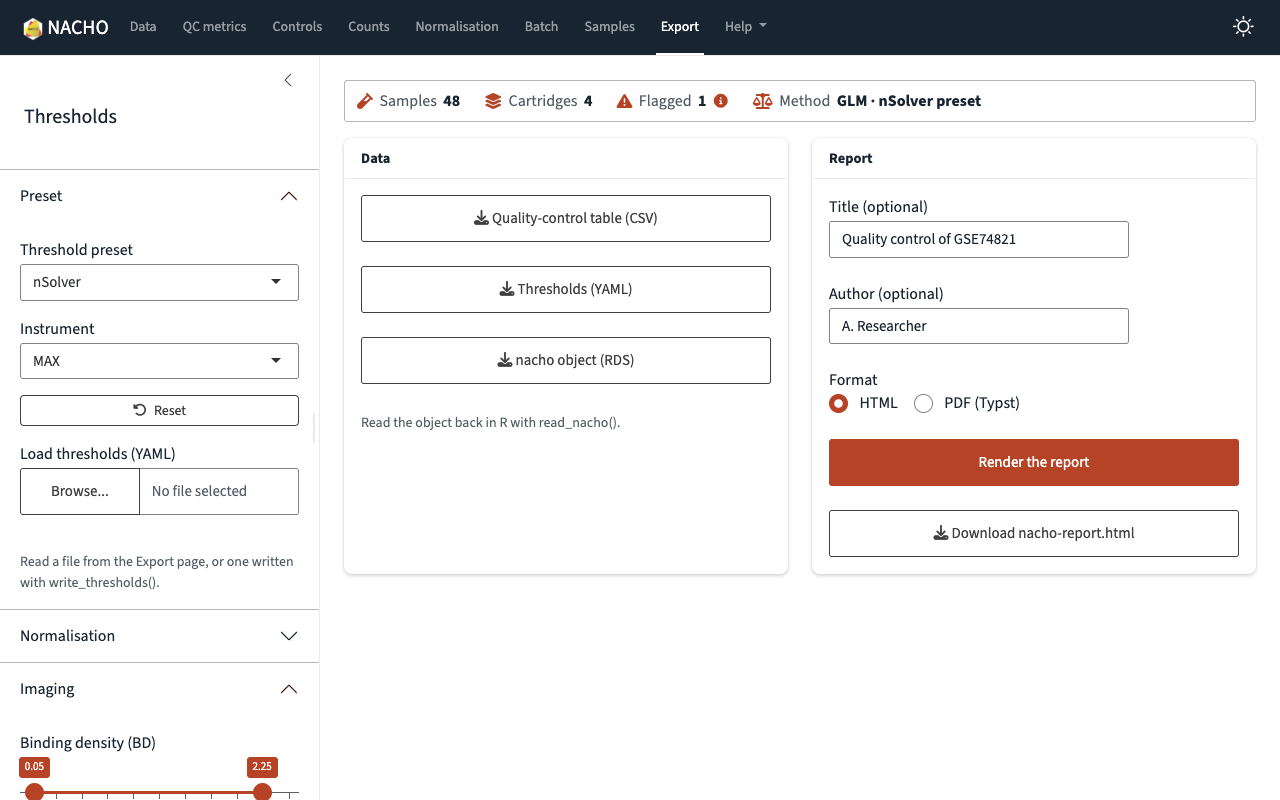
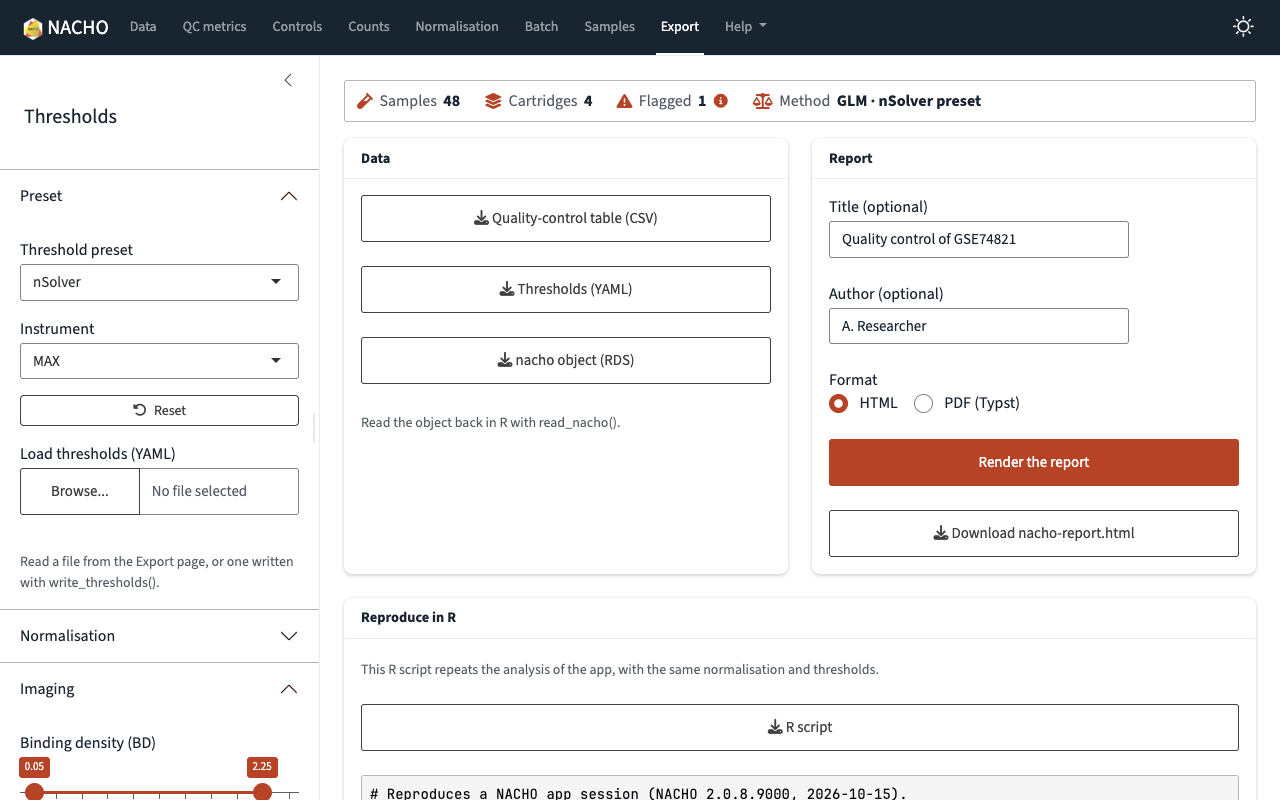
feat: export an R script that reproduces the app (#149)

diff --git a/NEWS.md b/NEWS.md
@@ -147,6 +147,7 @@ The article "Moving from NACHO 2" on the [package website](https://m.canouil.dev
   - feat: The Export page downloads the quality-control table as CSV, the thresholds as YAML, the object as RDS and the report, with an optional title and author.
     The report can be HTML or PDF, and it renders in the background when mirai is installed.
     If you close the app page during a render, the render stops.
+  - feat: The Export page also downloads an R script that repeats the analysis of the app with `load_rcc()`, `normalise()` and the thresholds you set, and shows it before you download it.
   - feat: A Help menu in the navbar opens About NACHO, links to the documentation, GitHub Discussions and the issue tracker, and shows how to cite NACHO.
   - feat: The "Flagged samples" page is now the "Samples" page.
     It still lists the flagged samples first, and then lists every sample.
